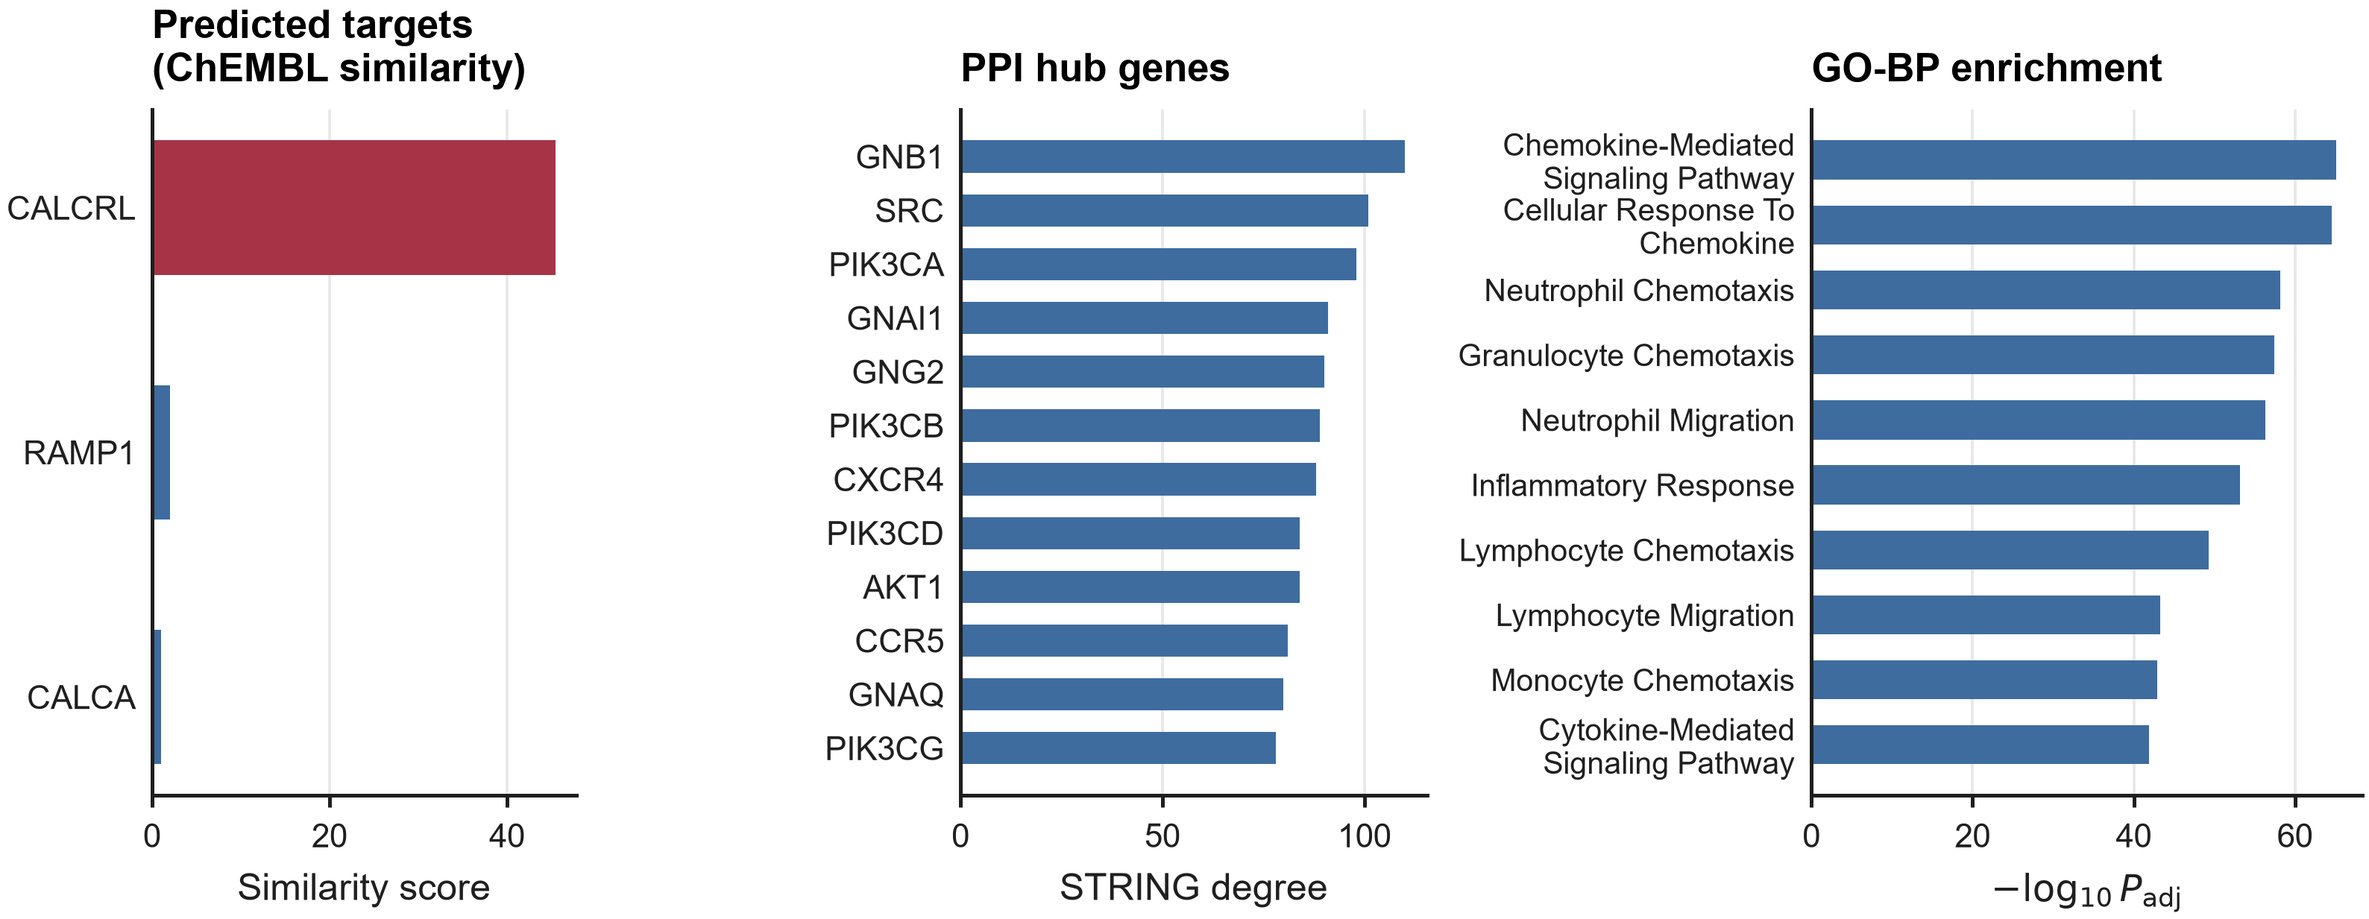
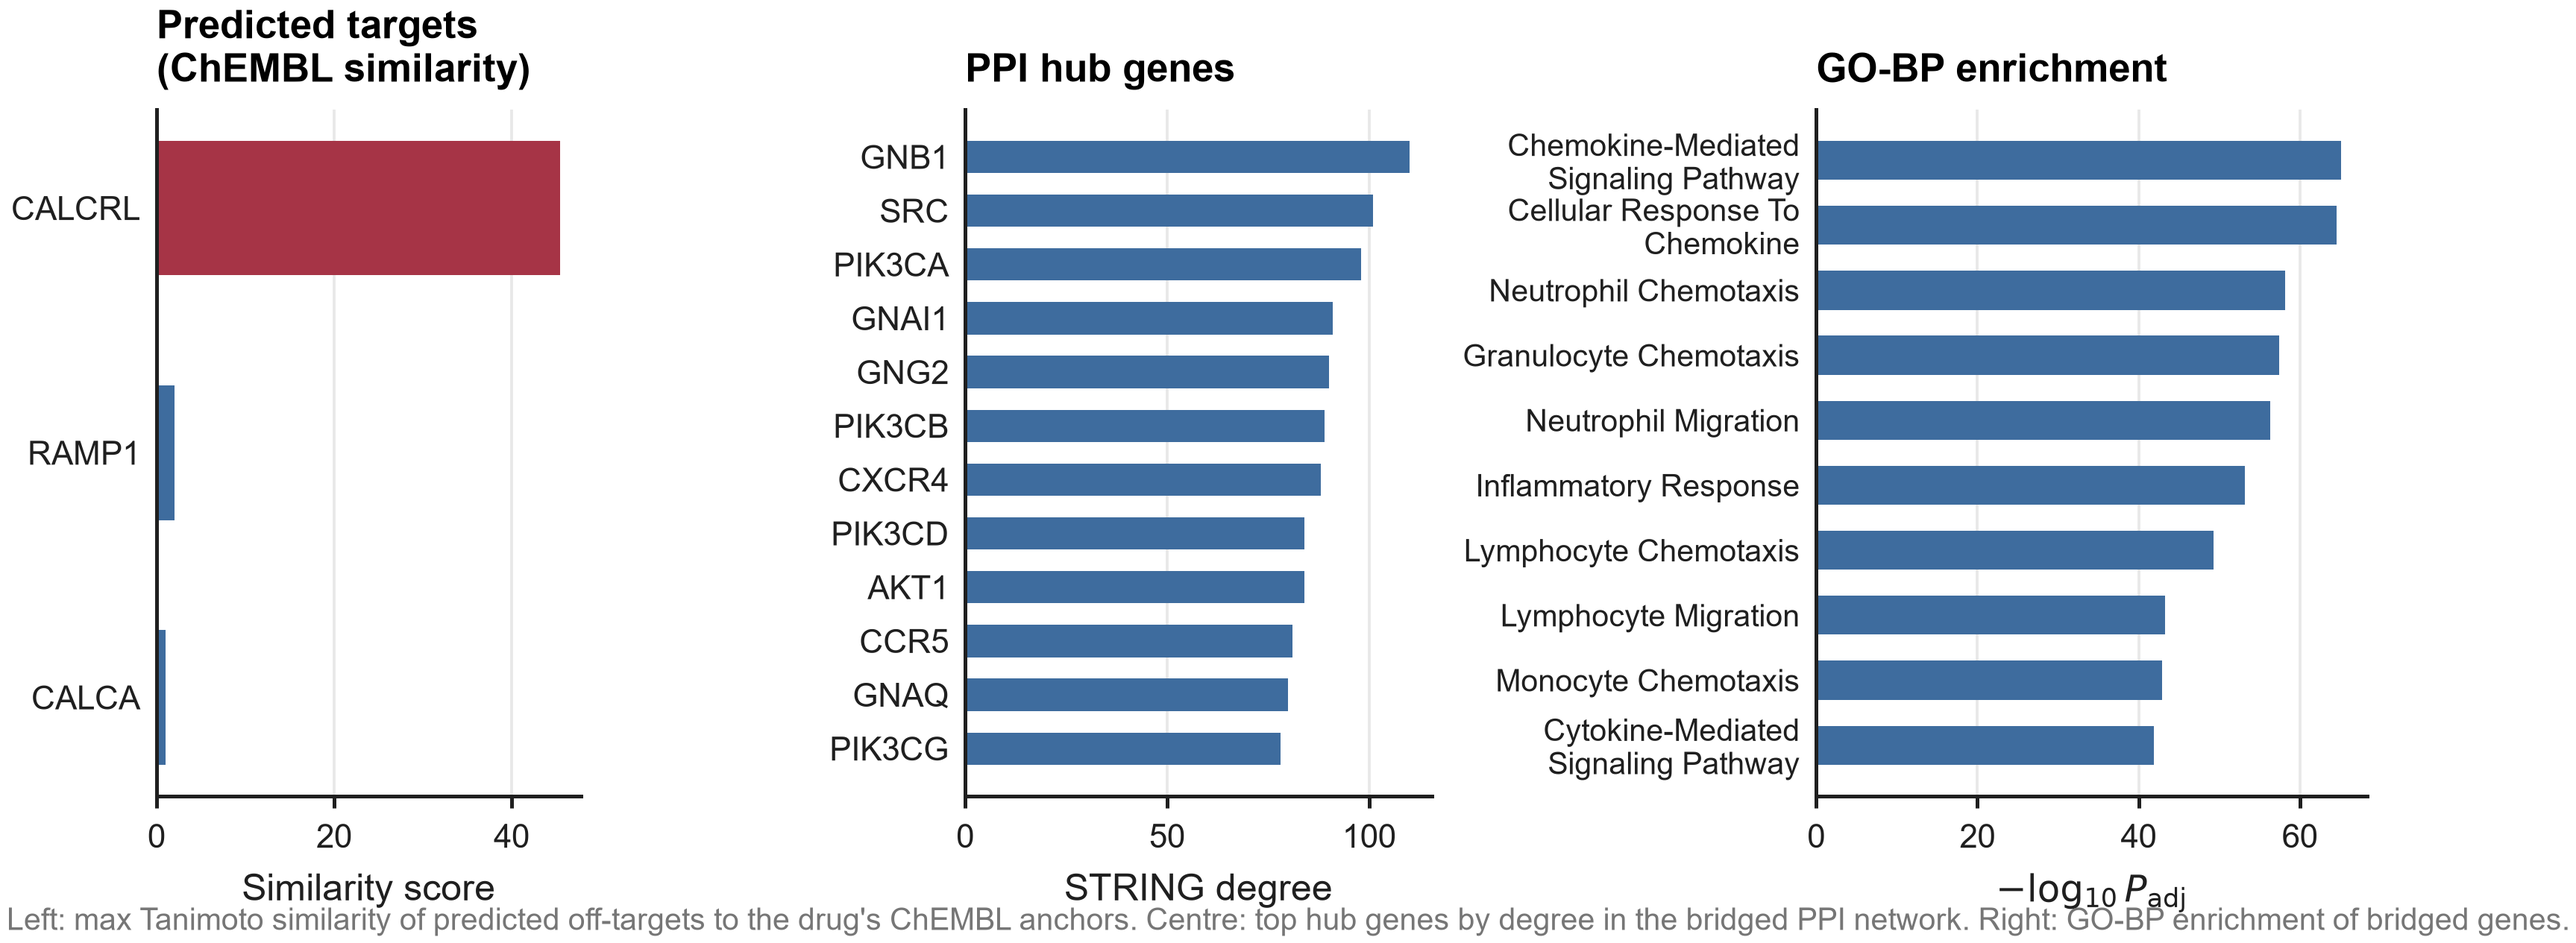
figures: Fig 2 redesigned as small multiples + Wilson ribbons; in-figure notes
Fig 2 replaces the single six-line chart with six small multiples on one
shared 0-40% scale (the low-frequency families were squashed flat and
unreadable before), each with a 95% Wilson interval ribbon, plus a
quarterly-denominator bar panel: a proportion is unreadable without its
base, and the 2024Q1 spike (1,670 reports) explains the jitter in the
adjacent proportions. figstyle gains a one-line encoding note helper
(fs.note); Figs 1/3/4 now carry a muted how-to-read line inside the image,
so they stay self-explanatory outside the caption.

R twin (rfigs) updated to the same layout: facet order fixed to the
manuscript's family order, points drawn as filled circles with white
strokes, Wilson intervals computed identically.

Caption legend updated; manuscript figure list mentions the new layout.
verify_claims --strict: PASS 77 / WARN 0 / FAIL 0 (its gate caught the
"0-40% scale" phrasing as an unsourced percentage - reworded).

diff --git a/tools/make_figures.py b/tools/make_figures.py
@@ -91,59 +91,101 @@ def fig1_forest() -> None:
     ax.legend(handles=handles, loc="lower right", fontsize=fs.S_SMALL,
               handletextpad=0.4, borderaxespad=0.3)
 
+    fs.note(fig, "Points: ROR. Bars: 95% CI (arrowheads mark CIs truncated at the "
+                 "axis limit). Red: positive signal under all four algorithms; "
+                 "blue: not robust.")
     fs.save(fig, OUT / "Figure_1.png")
 
 
 # ------------------------------------------------------------------ Fig 2 ---
+FAMILY_LABELS = {
+    "Anaphylactoid": "Anaphylactoid reactions",
+    "Systemic hypersensitivity": "Systemic hypersensitivity",
+    "Oral mucosal": "Oral mucosal",
+    "Oral sensory": "Oral sensory",
+    "Pharyngeal/airway": "Pharyngeal/airway",
+    "Excipient reaction": "Excipient reaction",
+}
+
+
+def _wilson(k: int, n: int, z: float = 1.959963985) -> tuple[float, float]:
+    """Wilson score interval for k of n, in percent."""
+    p = k / n
+    d = 1 + z * z / n
+    c = (p + z * z / (2 * n)) / d
+    h = z * np.sqrt(p * (1 - p) / n + z * z / (4 * n * n)) / d
+    return max(0.0, (c - h) * 100), min(100.0, (c + h) * 100)
+
+
 def fig2_trend() -> None:
-    ts = pd.read_csv(ROOT / "results_label_change" / "ts_quarterly_family.csv")
-    quarters = ts["quarter"].tolist()
-    labels = {"Anaphylactoid": "Anaphylactoid reactions",
-              "Systemic hypersensitivity": "Systemic hypersensitivity",
-              "Oral mucosal": "Oral mucosal",
-              "Oral sensory": "Oral sensory",
-              "Pharyngeal/airway": "Pharyngeal/airway",
-              "Excipient reaction": "Excipient reaction"}
-    fams = list(labels)
+    ts = pd.read_csv(ROOT / "results_label_change" / "ts_quarterly_family.csv",
+                     encoding="utf-8-sig")
+    fams = list(FAMILY_LABELS)
+    q = ts["quarter"].tolist()
+    x = np.arange(len(q))
+    i_cut = q.index("2025Q3")
+    n_n = ts["n"].to_numpy()
 
-    fig, ax = plt.subplots(figsize=(fs.W_DOUBLE, 3.6))
-    x = np.arange(len(quarters))
+    # small multiples on ONE shared 0-40% scale: six lines on a single axis
+    # squash the low-frequency families into a flat line at zero
+    fig = plt.figure(figsize=(fs.W_DOUBLE, 7.3))
+    gs = fig.add_gridspec(4, 2, height_ratios=[1, 1, 1, 0.74],
+                          hspace=0.60, wspace=0.14,
+                          left=0.088, right=0.988, top=0.975, bottom=0.150)
 
-    # shaded post-revision period instead of a dashed line
-    i_cut = quarters.index("2025Q3")
-    ax.axvspan(i_cut - 0.5, len(quarters) - 0.5, color=fs.BAND, zorder=0)
-    ax.text(i_cut + 0.2, 22.3, "Post-label revision", fontsize=fs.S_SMALL,
-            color=fs.MUTED, style="italic", ha="left")
+    for k, fam in enumerate(fams):
+        ax = fig.add_subplot(gs[k // 2, k % 2])
+        c = fs.FAMILY_COLORS[FAMILY_LABELS[fam]]
+        kv = ts[fam].to_numpy()
+        lo, hi = zip(*(_wilson(int(a), int(b)) for a, b in zip(kv, n_n)))
 
-    ends = {}
-    for fam in fams:
-        c = fs.FAMILY_COLORS[labels[fam]]
-        ax.plot(x, ts[f"{fam}_pct"], color=c, lw=1.15, marker="o", ms=2.3,
-                markeredgewidth=0, zorder=2)
-        ends[fam] = ts[f"{fam}_pct"].iloc[-1]
+        ax.axvspan(i_cut - 0.5, x[-1] + 0.5, color=fs.BAND, zorder=0)
+        ax.axvline(i_cut - 0.5, color=fs.MUTED, ls=(0, (3, 2)), lw=0.7, zorder=1)
+        ax.fill_between(x, lo, hi, color=c, alpha=0.15, lw=0, zorder=2)
+        ax.plot(x, ts[f"{fam}_pct"], color=c, lw=1.25, marker="o", ms=2.4,
+                mfc=c, mec="white", mew=0.45, zorder=3)
 
-    # direct end labels with collision nudge
-    order = sorted(ends, key=ends.get)
-    min_gap = 0.9
-    placed = []
-    for fam in order:
-        yy = ends[fam]
-        if placed and yy - placed[-1] < min_gap:
-            yy = placed[-1] + min_gap
-        placed.append(yy)
-        c = fs.FAMILY_COLORS[labels[fam]]
-        ax.annotate(labels[fam], xy=(len(quarters) - 1 + 0.35, yy),
-                    fontsize=fs.S_SMALL, color=c, va="center",
-                    fontweight="bold")
+        ax.set_title(FAMILY_LABELS[fam], loc="left", fontsize=fs.S_TITLE,
+                     fontweight="bold", color=c, pad=5)
+        ax.set_ylim(0, 40)
+        ax.set_yticks([0, 10, 20, 30, 40])
+        ax.set_xlim(-0.6, x[-1] + 0.6)
+        ax.set_xticks(x)
+        fs.light_grid(ax, axis="y")
+        if k % 2:                       # right column: no duplicate y labels
+            ax.set_yticklabels([])
+        if k < 4:                       # only the bottom row carries quarter labels
+            ax.set_xticklabels([])
+        else:
+            ax.set_xticklabels(q, rotation=60, ha="right")
 
-    ax.set_xlim(-0.5, len(quarters) + 5.2)
-    ax.set_ylim(-0.6, 23.5)
-    ax.set_xticks(x)
-    ax.set_xticklabels(quarters, rotation=60, ha="right")
-    ax.set_ylabel("Proportion of rimegepant reports (%)")
-    ax.set_xlabel("FAERS quarter")
-    fs.light_grid(ax, axis="y")
+    # one shared y-axis title for the panel block
+    p0, p4 = fig.axes[0].get_position(), fig.axes[4].get_position()
+    fig.text(0.020, (p0.y1 + p4.y0) / 2, "Proportion of reports (%)",
+             rotation=90, va="center", ha="center", fontsize=fs.S_LABEL)
 
+    # denominators: the reader cannot judge a proportion without its base
+    axd = fig.add_subplot(gs[3, :])
+    axd.axvspan(i_cut - 0.5, x[-1] + 0.5, color=fs.BAND, zorder=0)
+    axd.axvline(i_cut - 0.5, color=fs.MUTED, ls=(0, (3, 2)), lw=0.7, zorder=1)
+    axd.bar(x, n_n, width=0.62, color="#B7C6D4", edgecolor="none", zorder=2)
+    for xi, v in zip(x, n_n):
+        axd.text(xi, v + n_n.max() * 0.02, f"{int(v)}", ha="center",
+                 va="bottom", fontsize=5.2, color=fs.MUTED)
+    axd.set_ylim(0, n_n.max() * 1.26)
+    axd.set_yticks([0, 500, 1000, 1500, 2000])
+    axd.set_xlim(-0.6, x[-1] + 0.6)
+    axd.set_xticks(x)
+    axd.set_xticklabels(q, rotation=60, ha="right")
+    axd.set_ylabel("Reports (n)")
+    axd.set_title("Quarterly denominators", loc="left", fontsize=fs.S_TITLE,
+                  fontweight="bold", color=fs.INK, pad=5)
+    axd.text(i_cut + 0.45, n_n.max() * 1.13, "Post-label revision",
+             fontsize=fs.S_SMALL, color=fs.MUTED, style="italic", ha="left")
+    fs.light_grid(axd, axis="y")
+
+    fs.note(fig, "Panels share a 0\u201340% scale. Ribbons: 95% Wilson interval. "
+                 "Shaded area: post-label-revision period (2025Q3 onward).", y=0.006)
     fs.save(fig, OUT / "Figure_2.png")
 
 
@@ -217,6 +259,11 @@ def fig3_shap() -> None:
             "(female sex): 12.9% vs 6.2%.",
             transform=ax.transAxes, fontsize=fs.S_SMALL, color=fs.MUTED)
 
+    ax.text(0.0, -0.178,
+            "Each point: one report. x: SHAP contribution (log-odds of the "
+            "composite endpoint); colour: feature value (red high, blue low, "
+            "grey missing). Rows ordered by mean |SHAP|.",
+            transform=ax.transAxes, fontsize=fs.S_SMALL, color=fs.MUTED)
     fs.save(fig, OUT / "Figure_3.png")
 
 
@@ -291,6 +338,9 @@ def fig4_network() -> None:
 
     fig.subplots_adjust(wspace=0.80, left=0.07, right=0.985, top=0.80,
                         bottom=0.14)
+    fs.note(fig, "Left: max Tanimoto similarity of predicted off-targets to the "
+                 "drug's ChEMBL anchors. Centre: top hub genes by degree in the "
+                 "bridged PPI network. Right: GO-BP enrichment of bridged genes.")
     fs.save(fig, OUT / "Figure_4.png")
 
 

diff --git a/tools/make_submission.py b/tools/make_submission.py
@@ -353,7 +353,7 @@ def build_main_manuscript():
 
 LEGENDS = [
     ("Figure 1.", "Forest plot of the 25 highest-ROR preferred terms within the oral/hypersensitivity focus cluster (49 PTs; FAERS/AEMS 2020Q2\u20132026Q2, primary-suspect role). Points represent ROR; horizontal bars represent 95% CIs (truncated with an arrowhead where they extend beyond the axis); the vertical dashed line marks ROR = 1. Red points are robust positive signals (all four algorithms concordant); dark blue points did not meet the signal criterion. The right-hand columns give the number of primary-suspect rimegepant cases and the number of reports in the rest of the database. All 19 positive signals are shown."),
-    ("Figure 2.", "Quarterly reporting proportions of the six hypersensitivity-spectrum families, 2020Q2\u20132026Q2. The shaded band marks the post-label-revision period (2025Q3 onwards, following the August 2025 label revision)."),
+    ("Figure 2.", "Quarterly reporting proportions of the six hypersensitivity-spectrum families, 2020Q2\u20132026Q2, shown as small multiples on a shared 0\u201340% scale with 95% Wilson intervals (shaded ribbons). The shaded band marks the post-label-revision period (2025Q3 onwards, following the August 2025 label revision). The bottom panel shows the quarterly report denominators underlying all proportions."),
     ("Figure 3.", "SHAP summary plot of the best-performing model (random forest; AUC 0.621 \u00b1 0.015). Points are individual cases; the horizontal axis is the SHAP value in log-odds of the composite endpoint; colour encodes the feature value (red high, blue low; pale grey marks missing values). 21 of the 23 model features are shown: the male-sex mirror of female sex and the centred duplicate of report year are omitted. No feature dominates, and the largest mean absolute SHAP value is 0.030. Composite-endpoint positivity was 12.9% in the highest and 6.2% in the lowest quartile of the female-sex SHAP contribution."),
     ("Figure 4.", "Bridged network-toxicology overview: predicted targets (ChEMBL similarity, CALCRL highlighted), PPI hub genes (STRING degree), and top-10 GO biological-process enrichment of the bridged network. Drug anchors CALCRL/RAMP1/CALCA and bridge genes GNG2/GNB1/GNAS, C3/C5 and PLCG1/SRC/MAPK1 connect the drug layer to the chemokine and leukocyte-chemotaxis modules."),
 ]

diff --git a/src/figstyle.py b/src/figstyle.py
@@ -89,6 +89,16 @@ def light_grid(ax, axis="x") -> None:
     ax.set_axisbelow(True)
 
 
+def note(fig, text: str, y: float = 0.005, x: float = 0.008) -> None:
+    """One-line encoding guide inside the figure (what the marks mean).
+
+    Kept deliberately short and muted: the journal caption says what the
+    figure shows, this says how to read it, so the image is self-explanatory
+    when a reader meets it out of context.
+    """
+    fig.text(x, y, text, fontsize=S_SMALL, color=MUTED, ha="left", va="bottom")
+
+
 def save(fig, path: Path, pad: float = 0.02) -> Path:
     """Tight export; returns the written path."""
     path = Path(path)
